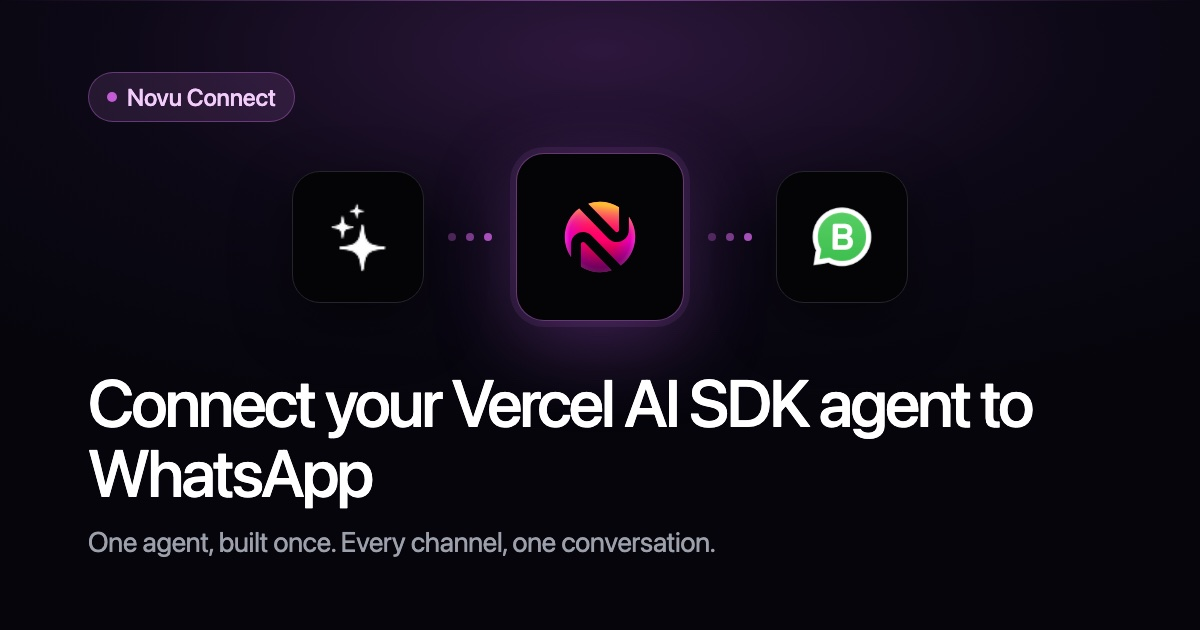
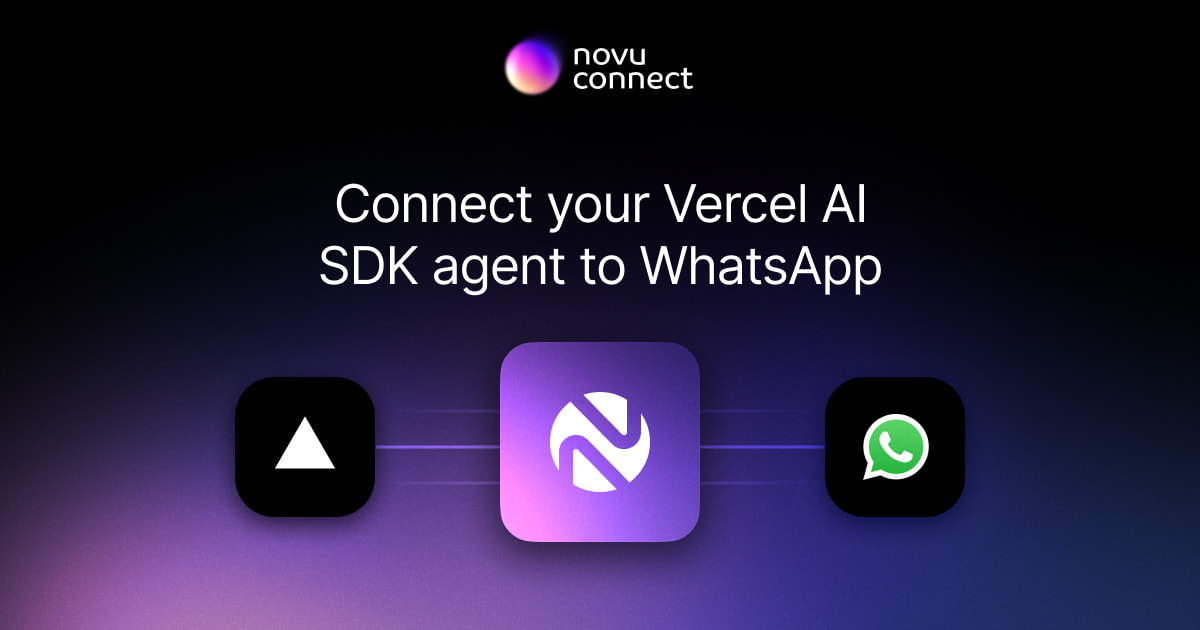
feat: minor design adjustments and cover updates (#146)
* feat: minor design adjustments

* feat: update covers

* fix: qa adjustments, remove redundant min-h, update mobile menu and vercel icon

* chore: update gap

diff --git a/src/components/pages/home/features/company-tooltip.tsx b/src/components/pages/home/features/company-tooltip.tsx
@@ -60,7 +60,7 @@ function CompanyTooltip({ company }: { company: IFeatureCompany }) {
       <TooltipTrigger asChild>
         <button
           aria-label={`About ${company.name}`}
-          className="absolute top-5 right-5 z-20 flex size-7 cursor-help items-center justify-center overflow-hidden rounded border border-gray-12 bg-[#101114] text-gray-60 shadow-[0_0_6px_2px_rgba(0,0,0,0.15)] backdrop-blur-[3.5px] transition-colors hover:border-gray-20 hover:bg-[#0B0C0E] hover:text-white focus-visible:border-gray-20 focus-visible:bg-[#0B0C0E] focus-visible:text-white focus-visible:ring-2 focus-visible:ring-white/50 focus-visible:outline-none data-[state=delayed-open]:border-gray-20 data-[state=delayed-open]:bg-[#0B0C0E] data-[state=delayed-open]:text-white data-[state=instant-open]:border-gray-20 data-[state=instant-open]:bg-[#0B0C0E] data-[state=instant-open]:text-white"
+          className="absolute top-5 right-5 z-20 flex size-7 cursor-pointer items-center justify-center overflow-hidden rounded border border-gray-12 bg-[#101114] text-gray-60 shadow-[0_0_6px_2px_rgba(0,0,0,0.15)] backdrop-blur-[3.5px] transition-colors hover:border-gray-20 hover:bg-[#0B0C0E] hover:text-white focus-visible:border-gray-20 focus-visible:bg-[#0B0C0E] focus-visible:text-white focus-visible:ring-2 focus-visible:ring-white/50 focus-visible:outline-none data-[state=delayed-open]:border-gray-20 data-[state=delayed-open]:bg-[#0B0C0E] data-[state=delayed-open]:text-white data-[state=instant-open]:border-gray-20 data-[state=instant-open]:bg-[#0B0C0E] data-[state=instant-open]:text-white"
           type="button"
         >
           <ChatBotIcon />
@@ -69,23 +69,23 @@ function CompanyTooltip({ company }: { company: IFeatureCompany }) {
       <TooltipContent
         align="end"
         avoidCollisions={false}
-        className="block w-[23.1875rem] max-w-[calc(100vw-2rem)] rounded-md border-gray-20 bg-[#0B0C0E] p-0 font-inter shadow-none drop-shadow-[0_2px_2.5px_rgba(0,0,0,0.25)] before:hidden after:hidden [&>span]:block [&>span]:w-full"
+        className="block w-[23.1875rem] max-w-[calc(100vw-2rem)] rounded-md border-gray-20 bg-[#0B0C0E] p-0 font-inter text-pretty shadow-none drop-shadow-[0_2px_2.5px_rgba(0,0,0,0.25)] before:hidden after:hidden [&>span]:block [&>span]:w-full"
         side="top"
         sideOffset={12}
       >
-        <span className="block px-[11px] py-[9px] text-left">
+        <span className="block px-2.5 py-2 text-left">
           <span className="flex flex-col gap-3">
             <span className="flex flex-col gap-1 text-[13px] leading-none">
-              <span className="font-medium tracking-[-0.02em] text-gray-90">
+              <span className="font-medium tracking-tighter text-gray-90">
                 {company.name}
               </span>
-              <span className="font-normal tracking-[-0.025em] text-gray-60">
+              <span className="leading-tight font-normal tracking-tight text-gray-60">
                 {company.about}
               </span>
             </span>
             <span className="h-px w-full bg-gray-20" aria-hidden="true" />
           </span>
-          <span className="mt-2 block text-[13px] leading-[1.375] font-normal tracking-[-0.025em] text-gray-80">
+          <span className="mt-2 block text-[13px] leading-[1.375] font-normal tracking-tight text-gray-80">
             {company.useCase}
           </span>
         </span>

diff --git a/src/components/pages/channels/framework-command-picker.tsx b/src/components/pages/channels/framework-command-picker.tsx
@@ -25,7 +25,7 @@ function ChannelLabel({ command }: { command: IFrameworkCommand }) {
         className="size-4 md:size-4"
         isMonochrome
       />
-      <span className="truncate">{command.channelName}</span>
+      <span className="truncate text-base">{command.channelName}</span>
     </span>
   )
 }
@@ -55,7 +55,7 @@ function FrameworkCommandPicker({
 
   return (
     <div
-      className="flex h-11 w-full min-w-0 items-stretch rounded-md border border-gray-30 bg-black focus-within:ring-2 focus-within:ring-foreground/30"
+      className="flex h-11 w-full min-w-0 items-stretch rounded-[0.25rem] border border-gray-30 bg-transparent focus-within:ring-2 focus-within:ring-foreground/30"
       data-slot="framework-command-picker"
     >
       <SelectPrimitive.Root
@@ -63,7 +63,7 @@ function FrameworkCommandPicker({
         onValueChange={handleChannelChange}
       >
         <SelectPrimitive.Trigger
-          className="group relative flex w-40 shrink-0 items-center justify-between gap-1.5 rounded-tl-md rounded-bl-md bg-[#040406] px-[13px] text-left font-inter text-sm font-normal tracking-tighter text-gray-70 ring-0 outline-0 transition-colors outline-none before:absolute before:inset-x-0 before:-inset-y-0.5 hover:text-white focus-visible:z-10 focus-visible:text-white focus-visible:ring-2 focus-visible:ring-foreground/30 sm:w-44"
+          className="group relative flex w-40 shrink-0 items-center justify-between gap-1.5 rounded-tl-[0.25rem] rounded-bl-[0.25rem] bg-transparent px-[13px] text-left font-inter text-sm font-normal tracking-tighter text-gray-70 ring-0 outline-0 transition-colors outline-none before:absolute before:inset-x-0 before:-inset-y-0.5 hover:text-white focus-visible:z-10 focus-visible:text-white focus-visible:ring-2 focus-visible:ring-foreground/30 sm:w-44"
           aria-label="Select channel command"
         >
           <SelectPrimitive.Value>
@@ -92,7 +92,7 @@ function FrameworkCommandPicker({
             position="popper"
             sideOffset={2}
           >
-            <SelectPrimitive.Viewport className="p-1.5">
+            <SelectPrimitive.Viewport className="flex flex-col gap-0.5 p-1.5">
               {commands.map((command) => (
                 <SelectPrimitive.Item
                   key={command.channelSlug}
@@ -126,7 +126,7 @@ function FrameworkCommandPicker({
 
       <div className="my-auto h-5.5 w-px bg-gray-20" aria-hidden="false" />
 
-      <div className="flex min-w-0 flex-1 items-center gap-3 px-3 font-mono text-sm tracking-normal text-gray-80 sm:px-4">
+      <div className="flex min-w-0 flex-1 items-center gap-3 pr-1.5 pl-3 font-mono text-base tracking-normal text-gray-80">
         <span className="shrink-0 text-gray-50 select-none">$</span>
         <code className="min-w-0 flex-1 truncate">{current.command}</code>
         <button
@@ -136,9 +136,9 @@ function FrameworkCommandPicker({
           aria-label={isCopied ? "Command copied" : "Copy selected command"}
         >
           {isCopied ? (
-            <Check className="size-3.5" aria-hidden />
+            <Check className="size-4" aria-hidden />
           ) : (
-            <Copy className="size-3.5" aria-hidden />
+            <Copy className="size-4" aria-hidden />
           )}
         </button>
       </div>

diff --git a/src/components/header/menu-icon.tsx b/src/components/header/menu-icon.tsx
@@ -13,14 +13,13 @@ import channelsEmailIcon from "@/svgs/header/menu/channels-email.inline.svg"
 import channelsImessageIcon from "@/svgs/header/menu/channels-imessage.inline.svg"
 import channelsInboxIcon from "@/svgs/header/menu/channels-inbox.inline.svg"
 import channelsLangchainIcon from "@/svgs/header/menu/channels-langchain.inline.svg"
-import channelsAiSdkIcon from "@/svgs/header/integrations/vercel-ai-sdk.inline.svg"
-import channelsChatSdkIcon from "@/svgs/header/menu/channels-chat-sdk.inline.svg"
 import channelsClaudeAwsIcon from "@/svgs/header/menu/channels-claude-aws.inline.svg"
 import channelsMsTeamsIcon from "@/svgs/header/menu/channels-ms-teams.inline.svg"
 import channelsPushIcon from "@/svgs/header/menu/channels-push.inline.svg"
 import channelsSlackIcon from "@/svgs/header/menu/channels-slack.inline.svg"
 import channelsSmsIcon from "@/svgs/header/menu/channels-sms.inline.svg"
 import channelsTelegramIcon from "@/svgs/header/menu/channels-telegram.inline.svg"
+import vercelIcon from "@/svgs/header/menu/channels-vercel.inline.svg"
 import channelsWhatsappIcon from "@/svgs/header/menu/channels-whatsapp.inline.svg"
 import resourcesAboutIcon from "@/svgs/header/menu/resources-about.inline.svg"
 import resourcesApiIcon from "@/svgs/header/menu/resources-api.inline.svg"
@@ -65,6 +64,8 @@ const INLINE_ICONS: Partial<Record<TMenuIcon, TInlineIcon>> = {
   codex: aiCodexIcon,
   cursor: aiCursorIcon,
   "custom-code": aiCustomCodeIcon,
+  "ai-sdk": vercelIcon,
+  "chat-sdk": vercelIcon,
   blog: resourcesBlogIcon,
   customers: resourcesCustomersIcon,
   community: resourcesCommunityIcon,
@@ -94,8 +95,6 @@ const COLOR_INLINE_ICONS: Partial<Record<TMenuIcon, TInlineIcon>> = {
   chat: channelsChatIcon,
   sms: channelsSmsIcon,
   langchain: channelsLangchainIcon,
-  "ai-sdk": channelsAiSdkIcon,
-  "chat-sdk": channelsChatSdkIcon,
   "claude-aws": channelsClaudeAwsIcon,
 }
 

diff --git a/src/components/header/mobile-item.tsx b/src/components/header/mobile-item.tsx
@@ -86,7 +86,7 @@ function MobileItem({ title, variant, content, onNavigate }: IMobileProps) {
                           {children?.length ? (
                             <>
                               <Link
-                                className="group flex w-full items-start gap-3 leading-none font-normal text-gray-90"
+                                className="group mt-2 flex w-full items-start gap-3 leading-none font-normal text-gray-90"
                                 href={href}
                                 variant="clean"
                                 onClick={onNavigate}
@@ -94,11 +94,11 @@ function MobileItem({ title, variant, content, onNavigate }: IMobileProps) {
                                 <MenuIcon className="mt-px" icon={menuIcon} />
                                 <span>{label}</span>
                               </Link>
-                              <ul className="mt-3 flex flex-col gap-y-3">
+                              <ul className="mt-5 flex flex-col gap-y-5">
                                 {children.map((child) => (
                                   <li key={child.label}>
                                     <Link
-                                      className="flex items-center gap-2.5 text-sm leading-none font-normal text-gray-70 hover:text-white"
+                                      className="flex items-center gap-2.5 text-base leading-none font-normal text-gray-70 hover:text-white"
                                       href={child.href}
                                       variant="clean"
                                       onClick={onNavigate}

diff --git a/src/components/pages/home/connect-stack.tsx b/src/components/pages/home/connect-stack.tsx
@@ -196,7 +196,7 @@ function SelectField({
             position="popper"
             sideOffset={2}
           >
-            <SelectPrimitive.Viewport className="p-1.5">
+            <SelectPrimitive.Viewport className="flex flex-col gap-0.5 p-1.5">
               {options.map((option) => (
                 <SelectPrimitive.Item
                   className="relative flex cursor-pointer items-center justify-between gap-3 rounded-[0.25rem] px-[7px] py-1.5 text-sm text-foreground outline-none select-none focus-visible:ring-0 focus-visible:ring-offset-0 data-[highlighted]:bg-[#191a1f] data-[state=checked]:bg-[#191a1f]"
@@ -319,7 +319,7 @@ I will complete the interactive CLI and approve dependency installs when asked. 
           )}
         </header>
 
-        <div className="w-full overflow-hidden rounded-xl border border-gray-20 lg:min-h-124">
+        <div className="w-full overflow-hidden rounded-xl border border-gray-20">
           <div className="border-b border-gray-20 p-5 md:p-8">
             <h3 className="text-xl leading-snug font-medium tracking-[-0.01em] text-foreground">
               1. Choose your setup

diff --git a/src/components/pages/home/hero.tsx b/src/components/pages/home/hero.tsx
@@ -236,7 +236,7 @@ function Hero({
             <ChannelIcons />
           </h1>
 
-          <div className="flex max-w-121 flex-col lg:justify-self-end lg:pt-[37px]">
+          <div className="flex max-w-121 flex-col lg:justify-end lg:justify-self-end lg:pb-2.5 xl:pb-3.5">
             <p className="pointer-events-auto text-base leading-normal tracking-tight text-pretty text-[#a3a6b2] select-text md:text-lg md:leading-normal">
               {description}
             </p>
@@ -248,7 +248,7 @@ function Hero({
                 copiedContent={<AnimatedCopyCheck />}
               />
               <CopyPromptButton
-                className="h-11 w-full px-5 text-base leading-none font-medium tracking-tight normal-case sm:w-39 [&_svg]:size-3.5"
+                className="h-11 w-full px-5 text-base leading-none font-medium tracking-tight normal-case hover:border-[#867A94] hover:bg-white/7 sm:w-39 [&_svg]:size-3.5"
                 variant="outline-transparent"
                 size="none"
                 resetInterval={2000}

diff --git a/src/components/pages/channels/framework-connect.tsx b/src/components/pages/channels/framework-connect.tsx
@@ -53,8 +53,8 @@ function FrameworkConnect({ combo }: { combo: IChannelFrameworkCombo }) {
         />
 
         {allCommands.length > 1 && (
-          <div className="mt-8 flex flex-col gap-4">
-            <h3 className="text-sm leading-none tracking-tighter text-white">
+          <div className="mt-8 flex flex-col gap-3">
+            <h3 className="text-base tracking-tighter text-gray-80">
               Every {framework.name} connect command
             </h3>
             <FrameworkCommandPicker

diff --git a/src/components/pages/home/compliance.tsx b/src/components/pages/home/compliance.tsx
@@ -70,7 +70,7 @@ function Compliance({
 
             <BookADemoSchedulingProvider utmCampaign="book_a_demo_connect">
               <BookADemoSchedulingButton
-                className="mt-8 h-12 rounded-md px-6 text-sm leading-none font-semibold tracking-normal normal-case"
+                className="mt-8 h-10.5 rounded-md px-5 text-base leading-none tracking-tight normal-case"
                 size="none"
                 clickLocation="homepage_compliance"
                 clickText="book_a_call"

diff --git a/src/components/pages/home/features/cli-command.tsx b/src/components/pages/home/features/cli-command.tsx
@@ -29,9 +29,9 @@ function CliCommand({ command, className }: ICliCommandProps) {
       </span>
       <span className="ml-auto shrink-0 text-gray-50 transition-colors group-hover:text-foreground">
         {isCopied ? (
-          <Check className="size-3.5" aria-hidden />
+          <Check className="size-4" aria-hidden />
         ) : (
-          <Copy className="size-3.5" aria-hidden />
+          <Copy className="size-4" aria-hidden />
         )}
       </span>
     </button>

diff --git a/src/components/pages/channels/framework-hero.tsx b/src/components/pages/channels/framework-hero.tsx
@@ -41,7 +41,7 @@ function FrameworkHero({ combo }: { combo: IChannelFrameworkCombo }) {
           <Button
             size="none"
             variant="default"
-            className="h-11 w-full shrink-0 rounded-md px-5 text-base leading-none font-normal tracking-tight normal-case sm:w-fit"
+            className="h-11 w-full shrink-0 rounded-md px-5 text-base leading-none font-medium tracking-tight normal-case sm:w-fit"
             asChild
           >
             <NextLink

diff --git a/src/constants/menus.ts b/src/constants/menus.ts
@@ -260,11 +260,6 @@ export const MENUS = {
           items: [
             { label: "Blog", href: ROUTE.blog, menuIcon: "blog" },
             {
-              label: "Customers",
-              href: ROUTE.customers,
-              menuIcon: "customers",
-            },
-            {
               label: "Community",
               href: ROUTE.community,
               menuIcon: "community",
